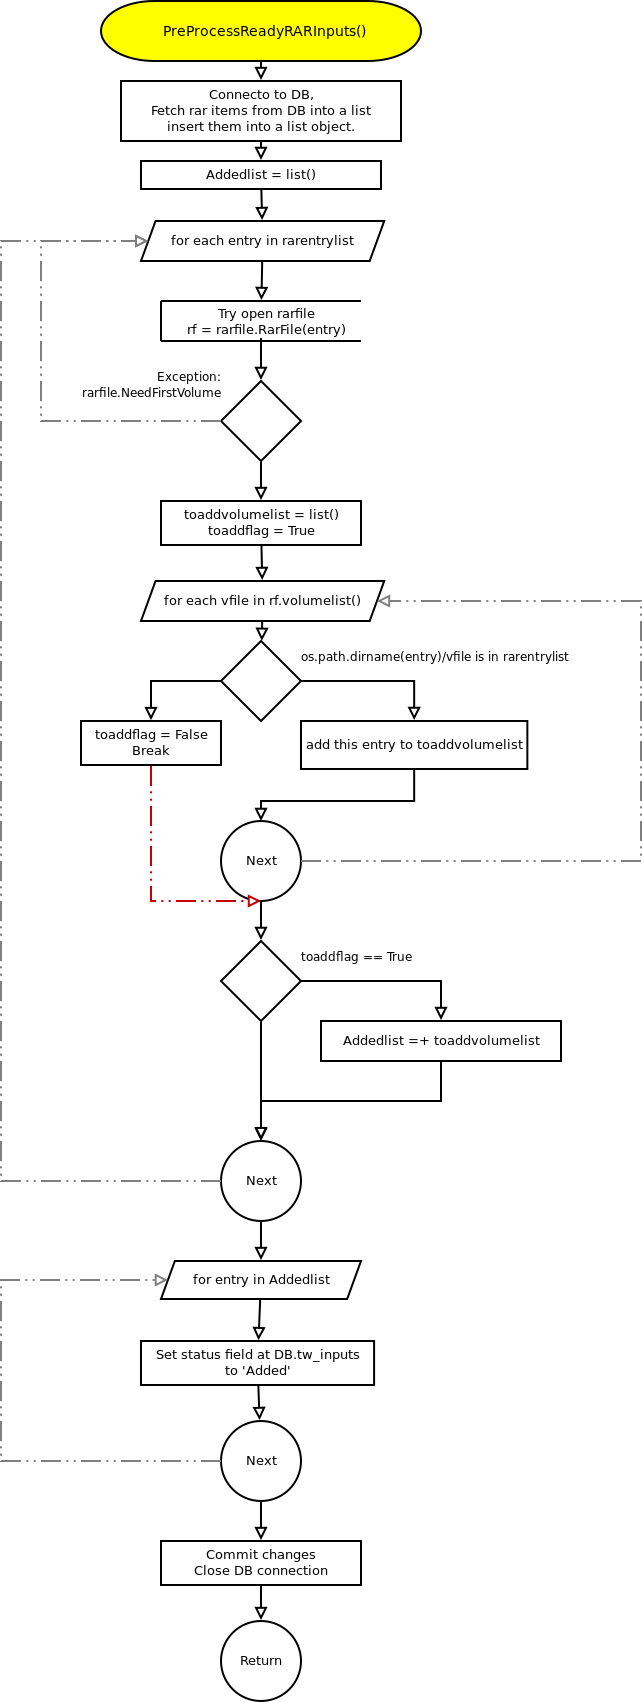
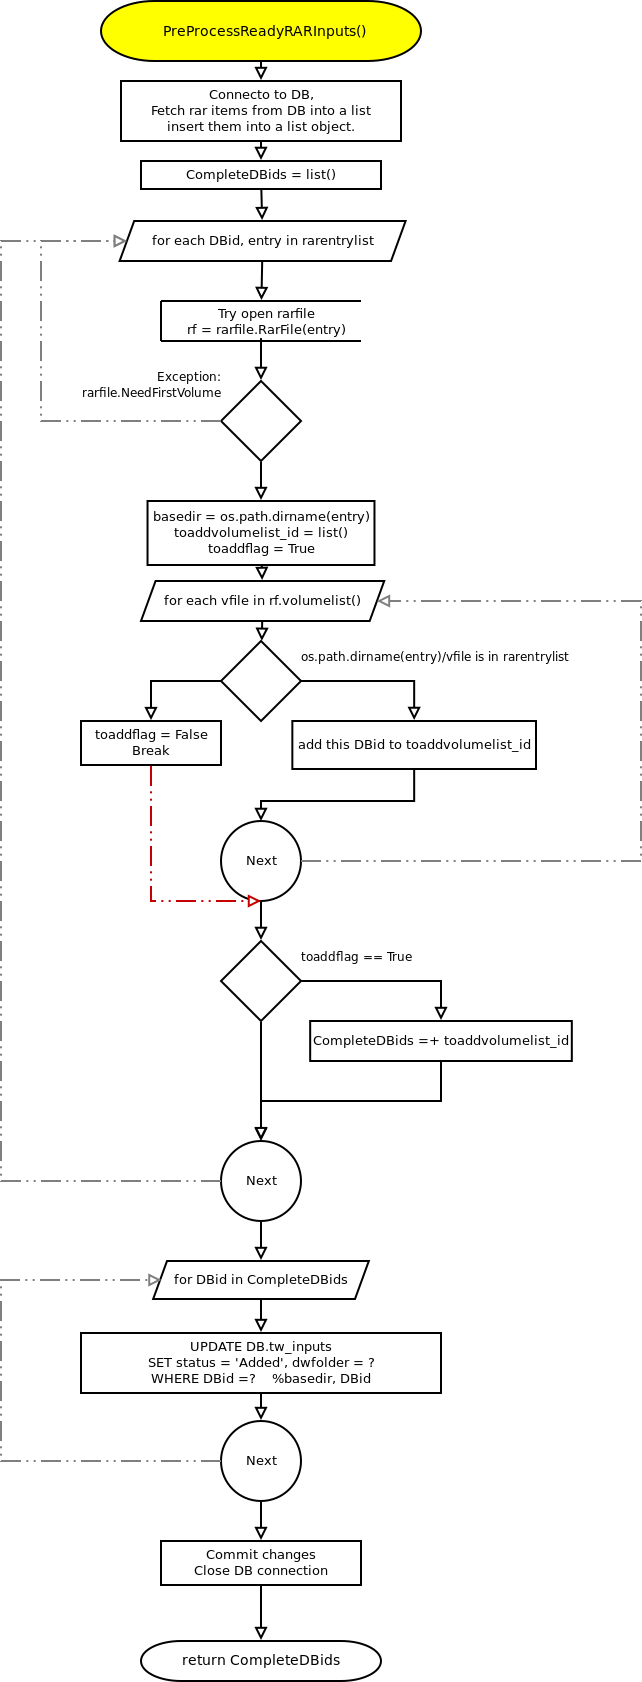
coding rar entries, had to check rar files before added for processing

diff --git a/Gideon.py b/Gideon.py
@@ -38,15 +38,14 @@ dyntestfolder = 'TESTS'
 try:
 	import rarfile
 except:
-	logging.info ('Rarfile library is not present. I will not process Rar files')
+	print ('Rarfile library is not present. I will not process Rar files')
 	RarSupport = False
 else:
 	if rarfile.UNRAR_TOOL == False:
-		logging.warning ('No unrar tool available. RarSupport is unavailable')
 		print ('No unrar tool is found. Please install unrar. I will not process Rar files.')
 		RarSupport = False
 	else:
-		logging.info ('RarSupport is active.')
+		print ('RarSupport is active.')
 		RarSupport = True
 
 
@@ -252,7 +251,7 @@ def toHumanSizeReadable (size, units = ''):
 
 	return hsr
 
-LogOnceDict = {'RPSF':set(), 'RPMT':set(), 'RPNMC':set(), 'RILS':set() }
+LogOnceDict = {'RPSF':set(), 'RPMT':set(), 'RPNMC':set(), 'RILS':set(), 'CSVC':set(), 'DRARJob':set() }
 def LogOnce (field, ID, msg='', action = 'log'):
 	''' This function enables the log or print once events driven by an unique ID and field.
 		a global var must to be defined with the fiels that you want to control.
@@ -470,9 +469,9 @@ logging.basicConfig(
 print ("logging to:", logging_file)
 
 # (1.4) Starting log file
-logging.debug("======================================================")
-logging.debug("================ Starting a new sesion ===============")
-logging.debug("======================================================")
+logging.info("======================================================")
+logging.info("================ Starting a new sesion ===============")
+logging.info("======================================================")
 
 
 # (1.5) Setting main variables
@@ -1291,7 +1290,7 @@ def addinputs (entrieslist):
 
 def launchTR (cmdline, seconds=0):
 	os.system(cmdline)
-	logging.info ('Transmission have been launched.')
+	logging.info ('Transmission has been launched.')
 	time.sleep(seconds)
 	return
 
@@ -1550,7 +1549,7 @@ def mailpreasignedtorrents (con):
 	return
 
 def gettrrpendingTXT (con):
-	cursor2 = con.execute ("SELECT id, trname FROM tw_inputs WHERE status = 'Added' ORDER BY added_date")
+	cursor2 = con.execute ("SELECT id, trname FROM tw_inputs WHERE status = 'Added' AND (filetype = '.torrent' OR filetype = '.magnet') ORDER BY added_date")
 	filelisttxt = "Torrents pending downloading:\n"
 	for entry in cursor2:
 		Trname = entry[1]
@@ -2016,7 +2015,7 @@ def CoverService (Fmovie_Folder, Availablecoversfd, inivideodest):
 			for i in subset:
 				filemovieset.add(i)
 		else:
-			logging.warning('(coverservice):Folder %s does not exist.'%folder2scan)
+			LogOnce ('CSVC', folder2scan, msg='(coverservice):Folder %s does not exist.'%folder2scan, action='print')
 	coverperformer (filemovieset, Availablecoversfd)		
 
 def coverperformer(filemovieset,Availablecoversfd):
@@ -2165,7 +2164,7 @@ def Telegramfd (Tfolder):
 				logging.info("Detected job %s was not processed because it were open by an application." %entry)
 				continue
 			elif extension == '.rar':
-				logging.info ("Detected a .rar job:")
+				LogOnce ('DRARJob', entry, msg="Detected a .rar job:"+ entry, action = 'log')
 				entrytype = extension
 			else:
 				entrytype = '.file'
@@ -2258,6 +2257,58 @@ def Removetorrent (tc, con, trr_id, DBid, sendtoTrash=True):
 			os.remove (indextodelete)
 	return
 
+def PreProcessReadyRARInputs():
+	''' Checks 'Ready' .rar files at DB and set them to 'Added' if all rar's volume files are available.
+		'''
+	con = sqlite3.connect (dbpath)
+	cursor = con.cursor()
+	cursor.execute ("SELECT id, fullfilepath from tw_inputs WHERE status = 'Ready' AND filetype = '.rar'")
+	rarentrydict = dict()
+	CompleteDBids = list()
+	for DBid, Fullfilepath in cursor:
+		rarentrydict[Fullfilepath] = DBid
+
+	cursor.execute ("SELECT id, fullfilepath from tw_inputs WHERE status = 'Ready' AND filetype = '.rar'")
+	for DBid, entry in cursor:
+		try:
+			rf = rarfile.RarFile(entry)
+		except rarfile.NeedFirstVolume:
+			logging.debug ('Skipping a non start rar volume:%s'%entry)
+			continue
+		else:
+			basedir = os.path.dirname(entry)
+			toaddvolumelist_id = list()
+			toaddflag = True
+			print ('')
+			print ('Checking entry', entry)
+			print ('volumelist', rf.volumelist())
+			for vfile in rf.volumelist():
+				pointer = os.path.join(basedir,vfile)
+				if pointer in rarentrydict:
+					toaddvolumelist_id.append (rarentrydict[pointer])
+					print ('this entry exists', pointer, '(',rarentrydict[pointer],')')
+				else:
+					toaddflag = False
+					break
+			if toaddflag == True:
+				##  Check rar file, because rf.volumelist is not the expected complete volume list, just the actual files founded by order.
+				## I need to check the rar file.
+				try:
+					rf.testrar()
+				except rarfile.RarCRCError:
+					logging.warning ('Rar file has errors or it is incomplete:'+ entry)
+				else:
+					print ('\ntoaddvolumelist_id = ', toaddvolumelist_id)
+					for i in toaddvolumelist_id:
+						CompleteDBids.append (i)
+					print ('CompleteDBids = ', CompleteDBids)
+					a = input ('Continue')
+
+	for DBid in CompleteDBids:
+		con.execute ("UPDATE tw_inputs SET status='Added', dwfolder = ? WHERE id = ?", (basedir,DBid))
+	con.commit()
+	con.close()
+	return CompleteDBids
 
 
 # ========================================
@@ -2276,8 +2327,8 @@ if __name__ == '__main__':
 			Hotfolderinputs = Telegramfd (Telegraminbox)
 			if len (Hotfolderinputs) > 0:
 				addinputs (Hotfolderinputs)
-			#if rarsupport == True:
-			#	PreProcessReadyRARInputs ()
+			if RarSupport == True:
+				PreProcessReadyRARInputs ()
 			#	UncompressRARFiles ()
 
 			PreProcessReadyTelegramInputs ()
